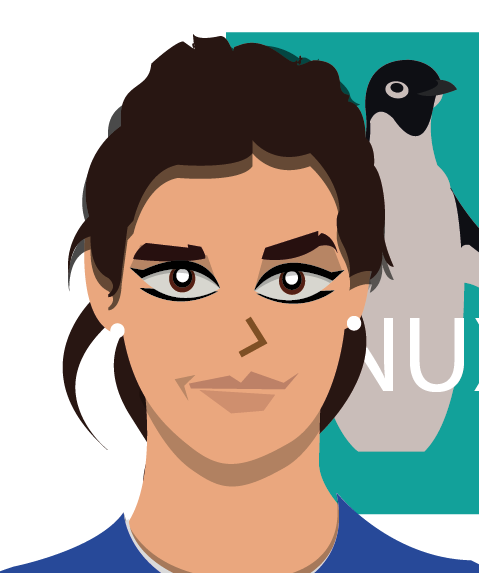
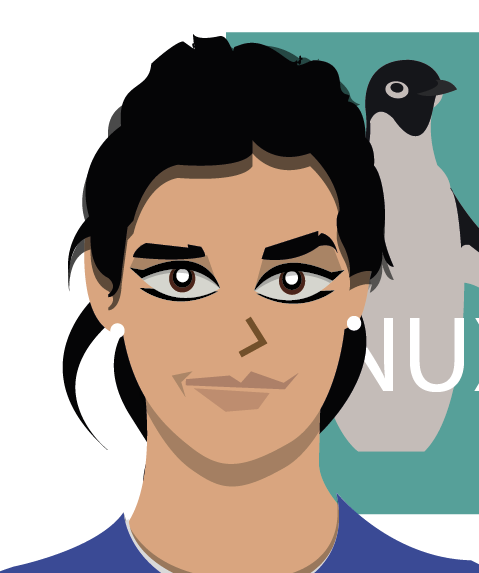
He vuelto a añadir a Aitziber, ahora con su propia sección y con más información sobre ella

diff --git a/index.html b/index.html
@@ -44,6 +44,7 @@
             Seguro que sí, pero por si acaso ;)
           </p>
         </article>
+
         <article class="columnas">
         <figure id="icono-etxea-olentzero"><img src="img/icono-03.png" alt="" /></figure>
         <p class="formulario padding-left-aumentar">"-¿Habrá llegado a la casa del Olentzero en Nafarroa?..."      </p>
@@ -62,15 +63,7 @@
       </article>
 
       <section id="formulario">
-        <!-- <article id="zuzen" class="">
-        <figure><img src="img/programadora-01.png" alt="" /></figure>
-        <h3>
-          Aiztiber
-        </h3>
-        <p class="formulario">
-          Programadora y Directora de technología de toda la red logística de OLENTZERO.
-        </p>
-        </article> -->
+
         <input type="text" name="name" value=" Izena?" id="nombre" class="formulario margin_top"><br/>
         <p class="conectando" id="conectar">
         </p>
@@ -80,6 +73,24 @@
         <p class="formulario" id="responder"></p>
 
         <input type="button" name="name" id="btn_confirmar" value="Comprobar" class="formulario">
+        <article id="zuzen" class="">
+        <figure><img src="img/programadora-01.png" alt="" /></figure>
+        <h3>
+          Aitziber
+        </h3>
+        <p class="formulario">
+          Programadora y Directora de technología de toda la red logística de OLENTZERO.
+        </p>
+        <p class="texto">
+          Aitziber es programadora y trabaja con Olentzero. Ella ha creado todo el sistema informático que Olentzero utiliza desde hace más de 10 años. Es la máxima responsable del área de seguridad informática. Olentzero tiene un equipo de 50 programadores y programadoras que le ayudan y ella es la máxima responsable de ese equipo.
+          Es de Guipuzkoa y es fan del sofware libre.
+          Es seguidora de La Real, pero el año pasado siguió muy de cerca al Athletic femenino, que en 2016 ganó la Liga. Su jugador favorito es Aduriz.
+          Le gusta leer y la música. Su libro favorito es .
+          Le gusta Iker Jimenez. A ella -que trabaja con Olentzero-, sus programas de televisión le divierten. Es muy fan de Iker. <br/>
+          Ella es la creado el la API que pone en contacto  esta web con la base de datos de Olentzero.<br/>
+          Gracias, Aitziber!
+        </p>
+        </article>
 
       </section>
       <section>

diff --git a/css/estilos.css b/css/estilos.css
@@ -172,6 +172,7 @@ script {
 
 
 #zuzen {
+  margin-top: 120px;
   text-align: center;
 }
 
@@ -191,6 +192,14 @@ script {
 
 .formulario {
   font-size: 24px;
+  font-family: 'Verdana';
+  padding-left: 2%;
+  width: 90%;
+}
+
+.texto {
+  text-align: left;
+  font-size: 18px;
   font-family: 'Verdana';
   padding-left: 2%;
   width: 90%;
@@ -318,6 +327,7 @@ h2 {
 }
 
 #olentzero-responde {
+  text-align: left;
   margin-top: 140px;
 }
 
